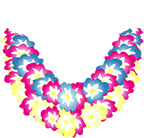
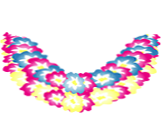
fixed hats, necklaces and pants *improved separated canvas handling

diff --git a/app/src/main/java/com/rpg/southparkavatars/view/CharacterView.java b/app/src/main/java/com/rpg/southparkavatars/view/CharacterView.java
@@ -10,6 +10,7 @@ import android.graphics.Paint;
 import android.graphics.PorterDuff;
 import android.graphics.RectF;
 import android.graphics.drawable.BitmapDrawable;
+import android.media.Image;
 import android.util.AttributeSet;
 import android.view.LayoutInflater;
 import android.widget.LinearLayout;
@@ -17,8 +18,6 @@ import android.widget.LinearLayout;
 import com.rpg.southparkavatars.R;
 import com.rpg.southparkavatars.character.Character;
 import com.rpg.southparkavatars.character.DrawableItem;
-import com.rpg.southparkavatars.character.Skin;
-import com.rpg.southparkavatars.character.clothing.Clothing;
 import com.rpg.southparkavatars.tool.BitmapLoader;
 
 import java.util.List;
@@ -29,7 +28,7 @@ public class CharacterView extends LinearLayout {
 
     private AssetManager assetManager;
     private Canvas canvas;
-    private Bitmap background;
+    private Bitmap bitmap;
     private Paint paint;
 
     private RectF rect;
@@ -67,20 +66,20 @@ public class CharacterView extends LinearLayout {
     }
 
     private void initCanvas() {
-        background = Bitmap.createBitmap(WIDTH, HEIGHT, Bitmap.Config.ARGB_4444);
-        canvas = new Canvas(background);
+        bitmap = Bitmap.createBitmap(WIDTH, HEIGHT, Bitmap.Config.ARGB_4444);
+        canvas = new Canvas(bitmap);
         paint = new Paint();
         paint.setColor(Color.parseColor("#CD5C5C"));
 
-        this.setBackground(new BitmapDrawable(getResources(), background));
+        this.setBackground(new BitmapDrawable(getResources(), bitmap));
     }
 
     public void draw(Character character) {
         canvas.drawColor(Color.TRANSPARENT, PorterDuff.Mode.CLEAR);
 
         drawItem(character.getSkin());
-        drawItems(character.getClothes().getClothes());
         drawItems(character.getHeadFeatures().getHeadFeatures());
+        drawItems(character.getClothes().getClothes());
 
         this.invalidate();
     }
@@ -114,5 +113,11 @@ public class CharacterView extends LinearLayout {
 
         rect.set(coordX, coordY, coordX + scale * width, coordY + scale * height);
         canvas.drawBitmap(bitmap, null, rect, paint);
+    }
+
+    public Image saveAsPNG() {
+//        bitmap.compress(Bitmap.CompressFormat.PNG, 90, );
+
+        return null;
     }
 }

diff --git a/app/src/main/java/com/rpg/southparkavatars/character/Character.java b/app/src/main/java/com/rpg/southparkavatars/character/Character.java
@@ -2,6 +2,7 @@ package com.rpg.southparkavatars.character;
 
 import com.fasterxml.jackson.annotation.JsonCreator;
 import com.fasterxml.jackson.annotation.JsonProperty;
+import com.fasterxml.jackson.annotation.ObjectIdGenerators;
 import com.rpg.southparkavatars.character.clothing.Clothing;
 import com.rpg.southparkavatars.character.clothing.CompositeClothing;
 import com.rpg.southparkavatars.character.head.CompositeHeadFeature;
@@ -14,10 +15,12 @@ import com.rpg.southparkavatars.observer.CharacterObserver;
 
 import java.util.ArrayList;
 import java.util.List;
+import java.util.UUID;
 
 public class Character implements ObservableCharacter {
     private String name;
     private Skin skin;
+    private String uuid;
 
     private CompositeClothing clothes = new CompositeClothing();
     private CompositeHeadFeature headFeatures = new CompositeHeadFeature();
@@ -27,17 +30,21 @@ public class Character implements ObservableCharacter {
     public Character(@JsonProperty("name") String name,
                      @JsonProperty("compositeClothes") CompositeClothing clothes,
                      @JsonProperty("compositeHeadFeatures") CompositeHeadFeature headFeatures,
-                     @JsonProperty("skin") Skin skin) {
+                     @JsonProperty("skin") Skin skin,
+                     @JsonProperty("uuid") String uuid) {
         this.name = name;
         this.clothes = clothes;
         this.headFeatures = headFeatures;
         this.skin = skin;
+        this.uuid = uuid;
     }
 
     public Character() {
         skin = new Skin(Skin.Color.WHITE);
         headFeatures.add(new Eyes(HeadFeatures.EYES.getDefaultPath()));
         headFeatures.add(new Mouth(HeadFeatures.MOUTH.getDefaultPath()));
+
+        uuid = UUID.randomUUID().toString();
 
         notifyAllObservers();
     }
@@ -47,6 +54,7 @@ public class Character implements ObservableCharacter {
         clothes = character.clothes;
         headFeatures = character.headFeatures;
         skin = character.skin;
+        uuid = character.uuid;
 
         notifyAllObservers();
     }

diff --git a/app/src/main/java/com/rpg/southparkavatars/tool/CharacterPersister.java b/app/src/main/java/com/rpg/southparkavatars/tool/CharacterPersister.java
@@ -27,7 +27,12 @@ public class CharacterPersister implements ItemPersister<Character> {
     @Override
     public void save(Character character) {
         Character[] characters = null;
+        createPathIfNotExists();
+        characters = readCharacters(characters);
+        writeCharacter(character, characters);
+    }
 
+    private void createPathIfNotExists() {
         if (!path.exists()) {
             try {
                 FileUtils.touch(path);
@@ -35,17 +40,23 @@ public class CharacterPersister implements ItemPersister<Character> {
                 e.printStackTrace();
             }
         }
+    }
 
-        try (FileReader fileIn = new FileReader(path)) {
-            characters = mapper.readValue(fileIn, Character[].class);
-        } catch (IOException e) {
-            e.printStackTrace();
-        }
-
+    private void writeCharacter(Character character, Character[] characters) {
         try (FileWriter fileOut = new FileWriter(path, false)) {
             mapper.writeValue(fileOut, ArrayUtils.add(characters, character));
         } catch (IOException e) {
             e.printStackTrace();
+        }
+    }
+
+    private Character[] readCharacters(Character[] characters) {
+        try (FileReader fileIn = new FileReader(path)) {
+            characters = mapper.readValue(fileIn, Character[].class);
+            return characters;
+        } catch (IOException e) {
+            e.printStackTrace();
+            return null;
         }
     }
 

diff --git a/app/src/main/java/com/rpg/southparkavatars/character/clothing/concrete/Necklace.java b/app/src/main/java/com/rpg/southparkavatars/character/clothing/concrete/Necklace.java
@@ -8,8 +8,8 @@ public class Necklace extends Clothing {
     public Necklace(@JsonProperty("coolness") int coolness, @JsonProperty("path") String path) {
         super(coolness, path);
 
-        setScale(2.8f);
+        setScale(1.8f);
         setXPosDivider(2f);
-        setYPosDivider(3.5f);
+        setYPosDivider(1.5f);
     }
 }

diff --git a/app/src/main/java/com/rpg/southparkavatars/character/clothing/concrete/Pants.java b/app/src/main/java/com/rpg/southparkavatars/character/clothing/concrete/Pants.java
@@ -8,8 +8,8 @@ public class Pants extends Clothing {
     public Pants(@JsonProperty("coolness") int coolness, @JsonProperty("path") String path) {
         super(coolness, path);
 
-        setScale(2.8f);
+        setScale(1.3f);
         setXPosDivider(2f);
-        setYPosDivider(3.5f);
+        setYPosDivider(1.275f);
     }
 }

diff --git a/app/src/main/java/com/rpg/southparkavatars/character/clothing/concrete/Hat.java b/app/src/main/java/com/rpg/southparkavatars/character/clothing/concrete/Hat.java
@@ -7,8 +7,8 @@ public class Hat extends Clothing {
     public Hat(@JsonProperty("coolness") int coolness, @JsonProperty("path") String path) {
         super(coolness, path);
 
-        setScale(2.8f);
+        setScale(2.2f);
         setXPosDivider(2f);
-        setYPosDivider(3.5f);
+        setYPosDivider(5f);
     }
 }
